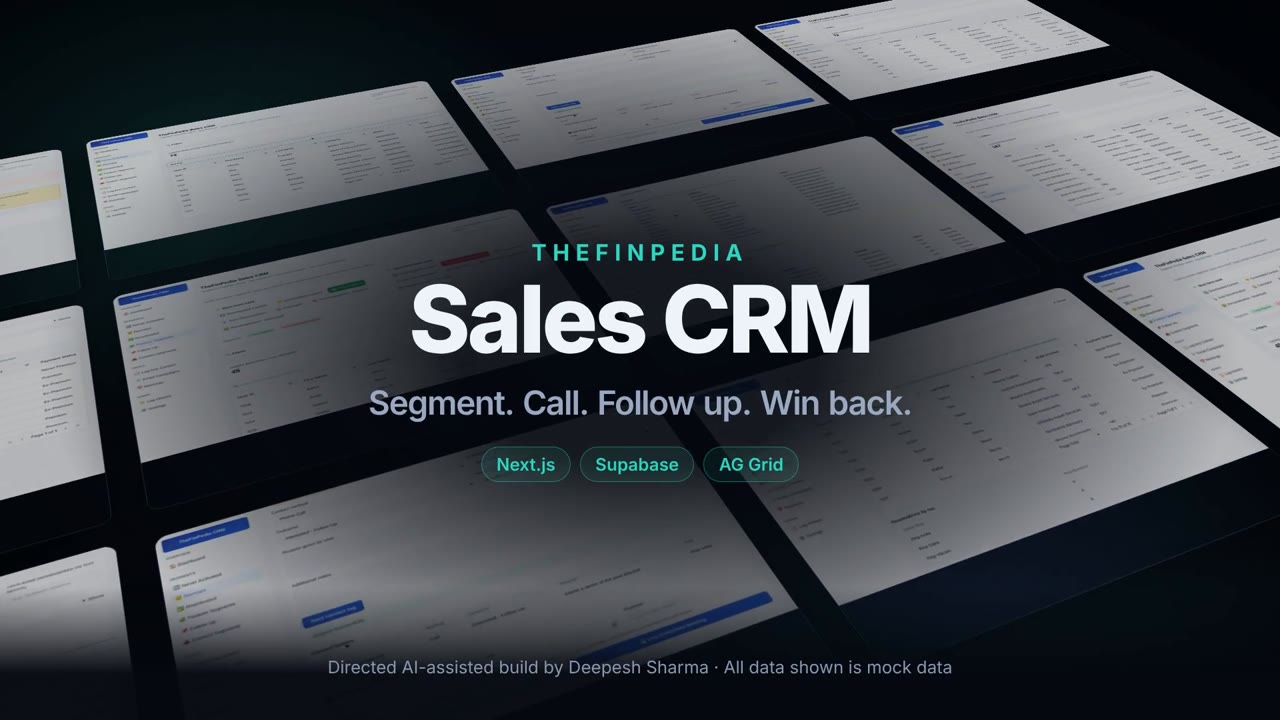
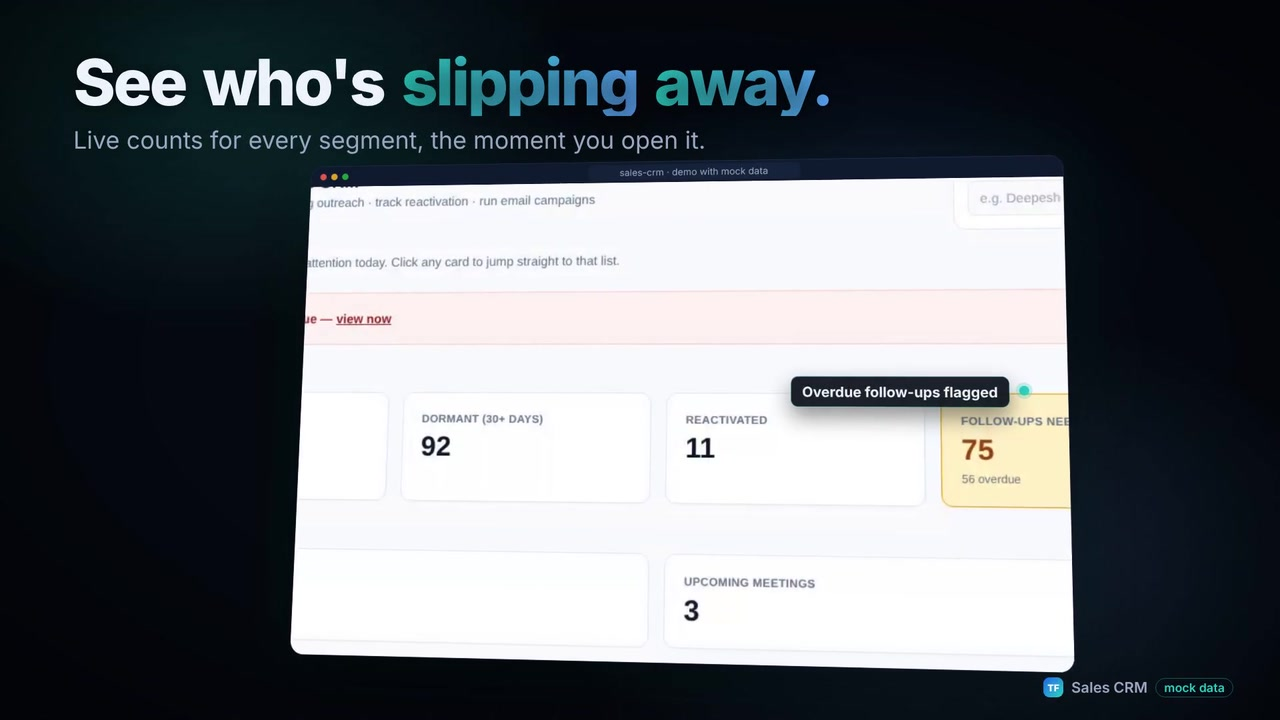
Use distinct app frames as film posters
The three posters were all the same closing title frame (a dark wall of
screens). Each is now a frame from its own film showing the real app close
up with the feature caption: Revenue at a glance, See who's slipping away,
Every project stage by stage.

Hero stack: lower cards now sit on top so every caption stays visible, and
each card has a short product label (play icon only on phones).

diff --git a/app/globals.css b/app/globals.css
@@ -63,11 +63,14 @@ ul, ol { margin: 0; padding: 0; list-style: none; }
 .hero-stack { position: relative; height: 470px; perspective: 1400px; }
 .stack-card { position: absolute; width: 70%; border-radius: 16px; overflow: hidden; border: 1px solid var(--line2); box-shadow: 0 30px 70px rgba(0,0,0,.55); transition: transform .5s cubic-bezier(.2,.8,.2,1), box-shadow .3s; background: #05080f; }
 .stack-card img { width: 100%; height: auto; aspect-ratio: 16 / 9; object-fit: cover; }
-.stack-card.s0 { right: 0; top: 0; z-index: 3; transform: rotateY(-10deg) rotateX(4deg); }
+/* lower cards sit on top, so every card's caption (top of the poster) stays visible */
+.stack-card.s0 { right: 0; top: 0; z-index: 1; transform: rotateY(-10deg) rotateX(4deg); }
 .stack-card.s1 { left: 0; top: 140px; z-index: 2; transform: rotateY(-10deg) rotateX(4deg); }
-.stack-card.s2 { right: 4%; top: 280px; z-index: 1; transform: rotateY(-10deg) rotateX(4deg); }
+.stack-card.s2 { right: 4%; top: 280px; z-index: 3; transform: rotateY(-10deg) rotateX(4deg); }
 .stack-card:hover, .stack-card:focus-visible { z-index: 5; transform: rotateY(0) rotateX(0) scale(1.03); box-shadow: 0 40px 90px rgba(0,0,0,.65), 0 0 0 1px rgba(45,212,191,.45); }
-.stack-play { position: absolute; left: 14px; bottom: 14px; width: 38px; height: 38px; border-radius: 50%; display: grid; place-items: center; font-size: .8rem; color: #04101a; background: var(--grad); box-shadow: 0 6px 20px rgba(0,0,0,.4); }
+.stack-play { position: absolute; left: 12px; bottom: 12px; display: inline-flex; align-items: center; gap: 8px; padding: 5px 12px 5px 5px; border-radius: 999px; font-size: .78rem; font-weight: 700; color: var(--text); background: rgba(5,8,15,.82); border: 1px solid var(--line2); box-shadow: 0 6px 20px rgba(0,0,0,.4); }
+.stack-card.s0 .stack-play { left: auto; right: 12px; }
+.stack-play i { width: 26px; height: 26px; border-radius: 50%; display: grid; place-items: center; font-style: normal; font-size: .62rem; color: #04101a; background: var(--grad); }
 .stack-cap { position: absolute; bottom: 8px; left: 0; max-width: 24%; font-size: .8rem; line-height: 1.4; color: var(--faint); }
 
 /* hero: stats */
@@ -194,6 +197,7 @@ ul, ol { margin: 0; padding: 0; list-style: none; }
   .stack-card { width: 76%; }
   .stack-card.s1 { top: 86px; } .stack-card.s2 { top: 172px; }
   .stack-cap { display: none; }
+  .stack-play { font-size: 0; gap: 0; padding: 4px; }
   .stats { gap: 10px; margin-top: 44px; } .stats a { padding: 16px; }
   .work-grid, .principles, .skills, .cs-more-grid { grid-template-columns: 1fr; }
   .work-media-flow { gap: 6px; padding: 12px; } .work-media-flow span { font-size: .72rem; padding: 8px 9px; } .work-media-flow i { flex-basis: 12px; }

diff --git a/components/Hero.tsx b/components/Hero.tsx
@@ -1,5 +1,7 @@
 import { projects, site, stats } from "@/content/site";
 
+const SHORT: Record<string, string> = { dashboard: "Exec Dashboard", crm: "Sales CRM", pmt: "PMT" };
+
 export default function Hero() {
   const filmed = projects.filter((p) => p.film);
   return (
@@ -22,7 +24,7 @@ export default function Hero() {
             <a key={p.id} href={`#${p.id}`} className={`stack-card s${i}`} aria-label={`${p.title}: watch the product film`}>
               {/* eslint-disable-next-line @next/next/no-img-element */}
               <img src={p.film!.poster} alt="" width={1280} height={720} loading={i === 0 ? "eager" : "lazy"} />
-              <span className="stack-play" aria-hidden="true">▶</span>
+              <span className="stack-play" aria-hidden="true"><i>▶</i>{SHORT[p.id] ?? p.title}</span>
             </a>
           ))}
           <p className="stack-cap">Real apps, recorded on mock data</p>
